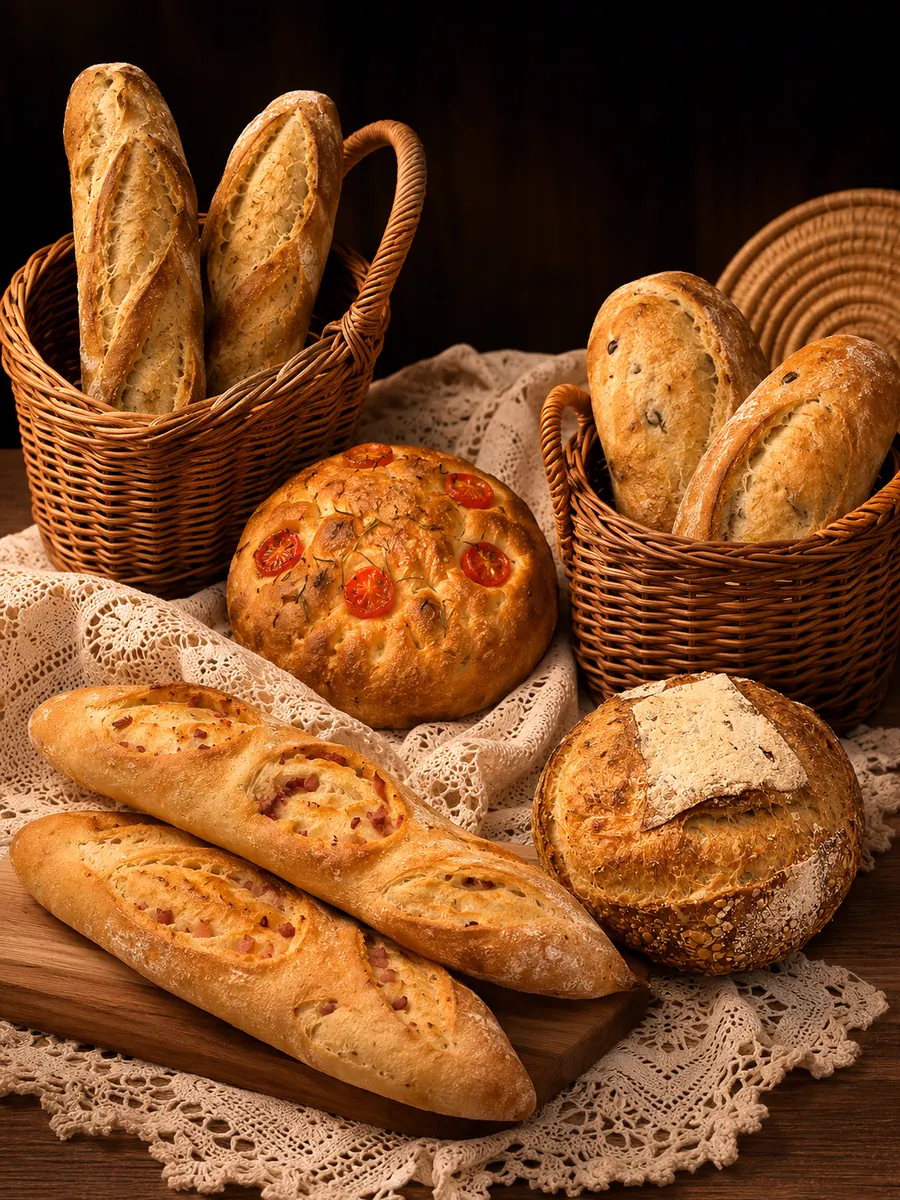
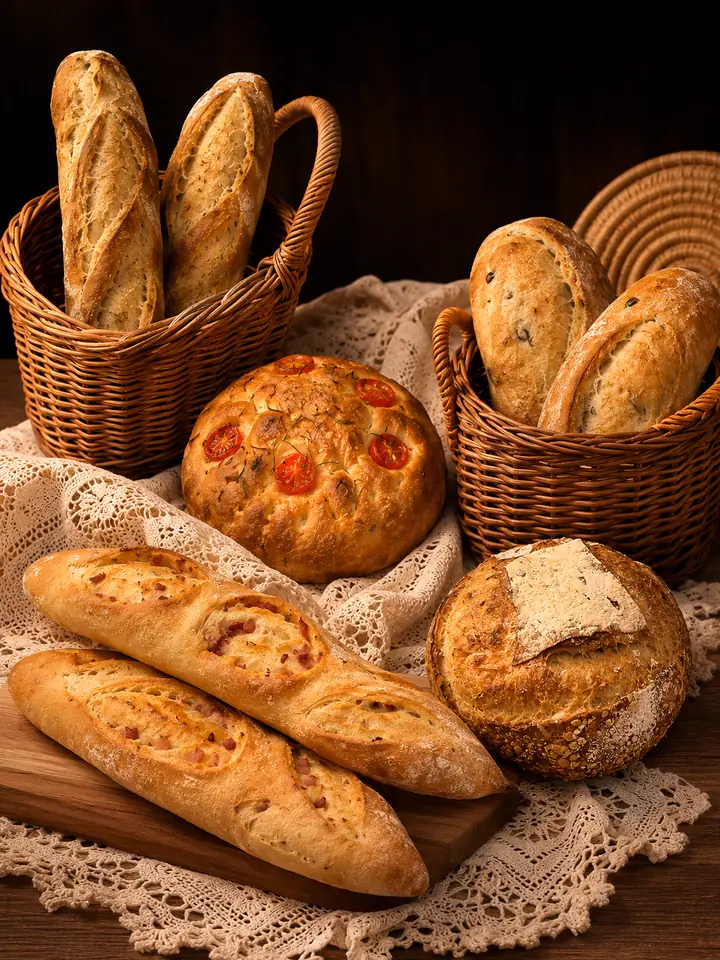
Reduz hero mobile para 720w, adia o GA ate load/interacao

diff --git a/site-bella-curitiba/index.html b/site-bella-curitiba/index.html
@@ -2,14 +2,35 @@
 <html lang="pt-BR">
 <head>
   <meta charset="UTF-8">
-  <!-- Google tag (gtag.js) -->
-<script async src="https://www.googletagmanager.com/gtag/js?id=G-EP9P122WJ8"></script>
+  <!-- Google tag (gtag.js): fila criada na hora, biblioteca real so carrega
+       depois do load da pagina ou na primeira interacao do usuario (o que
+       vier primeiro), pra nao competir por banda com o carregamento inicial -->
 <script>
   window.dataLayer = window.dataLayer || [];
   function gtag(){dataLayer.push(arguments);}
   gtag('js', new Date());
-
   gtag('config', 'G-EP9P122WJ8');
+
+  (function () {
+    var carregado = false;
+    function carregarGA() {
+      if (carregado) return;
+      carregado = true;
+      var script = document.createElement('script');
+      script.async = true;
+      script.src = 'https://www.googletagmanager.com/gtag/js?id=G-EP9P122WJ8';
+      document.head.appendChild(script);
+    }
+    var eventosInteracao = ['pointerdown', 'touchstart', 'keydown', 'scroll'];
+    eventosInteracao.forEach(function (evento) {
+      window.addEventListener(evento, carregarGA, { once: true, passive: true });
+    });
+    if (document.readyState === 'complete') {
+      carregarGA();
+    } else {
+      window.addEventListener('load', carregarGA, { once: true });
+    }
+  })();
 </script>
 
   <meta name="viewport" content="width=device-width, initial-scale=1.0">
@@ -152,7 +173,7 @@
     <section id="inicio" class="hero">
       <!-- Imagem de fundo do hero: no mobile entra a vertical, no desktop a horizontal -->
       <picture>
-        <source media="(max-width: 768px)" srcset="assets/images/video-hero/img-hero-mobile.webp">
+        <source media="(max-width: 768px)" srcset="assets/images/video-hero/img-hero-mobile.webp" width="720" height="960">
         <img class="hero__bg" src="assets/images/video-hero/img-hero-desktop.webp" alt="" width="1402" height="1122" fetchpriority="high">
       </picture>
       <div class="hero__overlay"></div>

diff --git a/site-bella-curitiba/vagas.html b/site-bella-curitiba/vagas.html
@@ -2,14 +2,35 @@
 <html lang="pt-BR">
 <head>
   <meta charset="UTF-8">
-  <!-- Google tag (gtag.js) -->
-<script async src="https://www.googletagmanager.com/gtag/js?id=G-EP9P122WJ8"></script>
+  <!-- Google tag (gtag.js): fila criada na hora, biblioteca real so carrega
+       depois do load da pagina ou na primeira interacao do usuario (o que
+       vier primeiro), pra nao competir por banda com o carregamento inicial -->
 <script>
   window.dataLayer = window.dataLayer || [];
   function gtag(){dataLayer.push(arguments);}
   gtag('js', new Date());
-
   gtag('config', 'G-EP9P122WJ8');
+
+  (function () {
+    var carregado = false;
+    function carregarGA() {
+      if (carregado) return;
+      carregado = true;
+      var script = document.createElement('script');
+      script.async = true;
+      script.src = 'https://www.googletagmanager.com/gtag/js?id=G-EP9P122WJ8';
+      document.head.appendChild(script);
+    }
+    var eventosInteracao = ['pointerdown', 'touchstart', 'keydown', 'scroll'];
+    eventosInteracao.forEach(function (evento) {
+      window.addEventListener(evento, carregarGA, { once: true, passive: true });
+    });
+    if (document.readyState === 'complete') {
+      carregarGA();
+    } else {
+      window.addEventListener('load', carregarGA, { once: true });
+    }
+  })();
 </script>
 
   <meta name="viewport" content="width=device-width, initial-scale=1.0">
